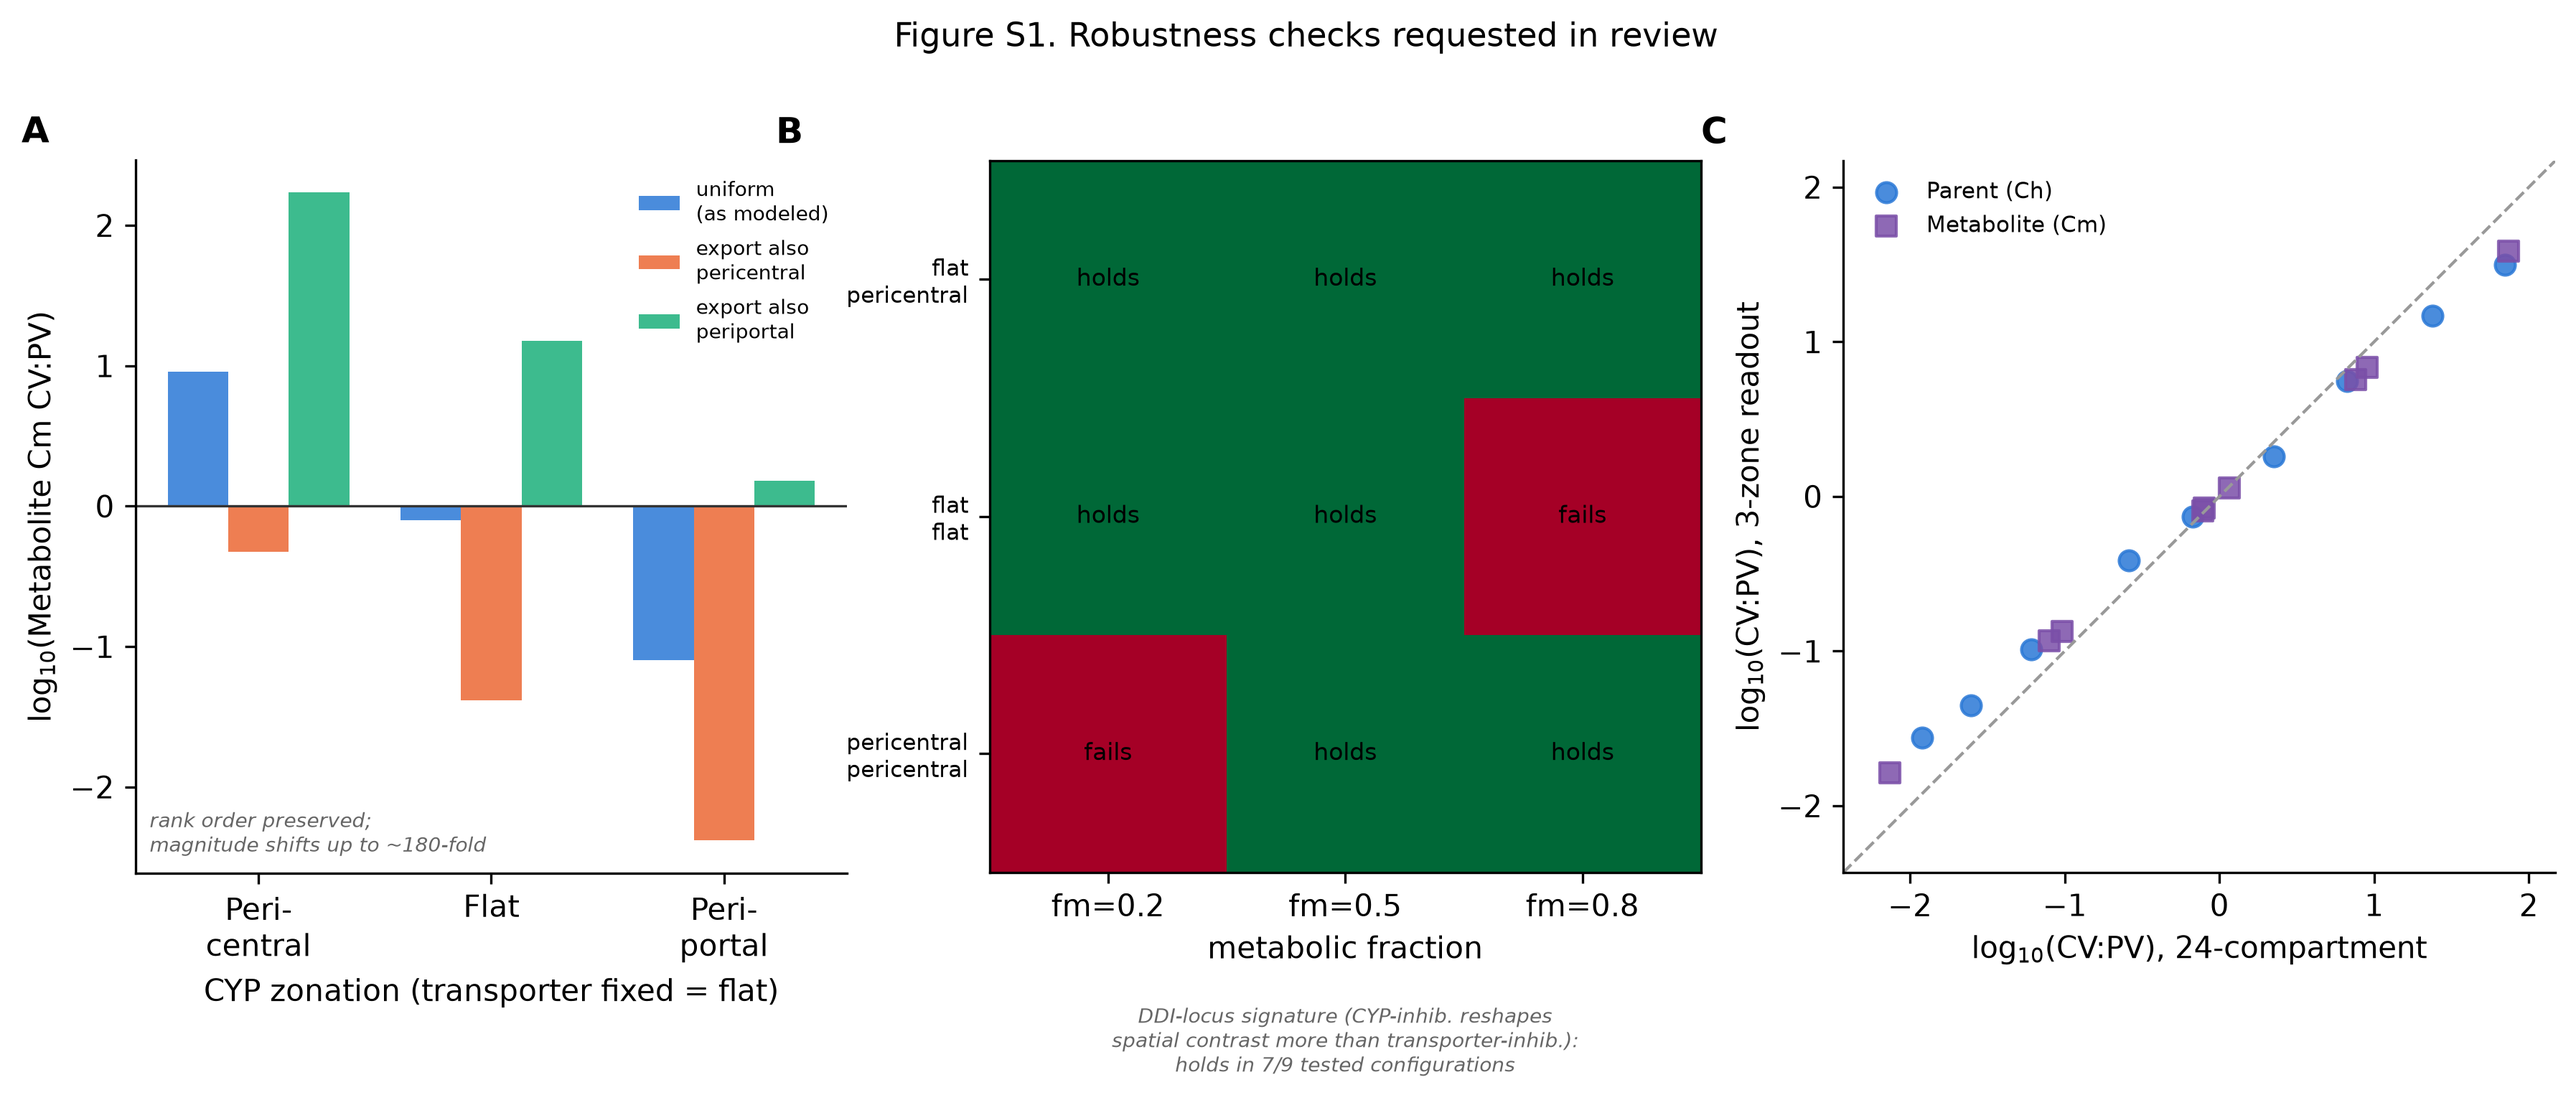
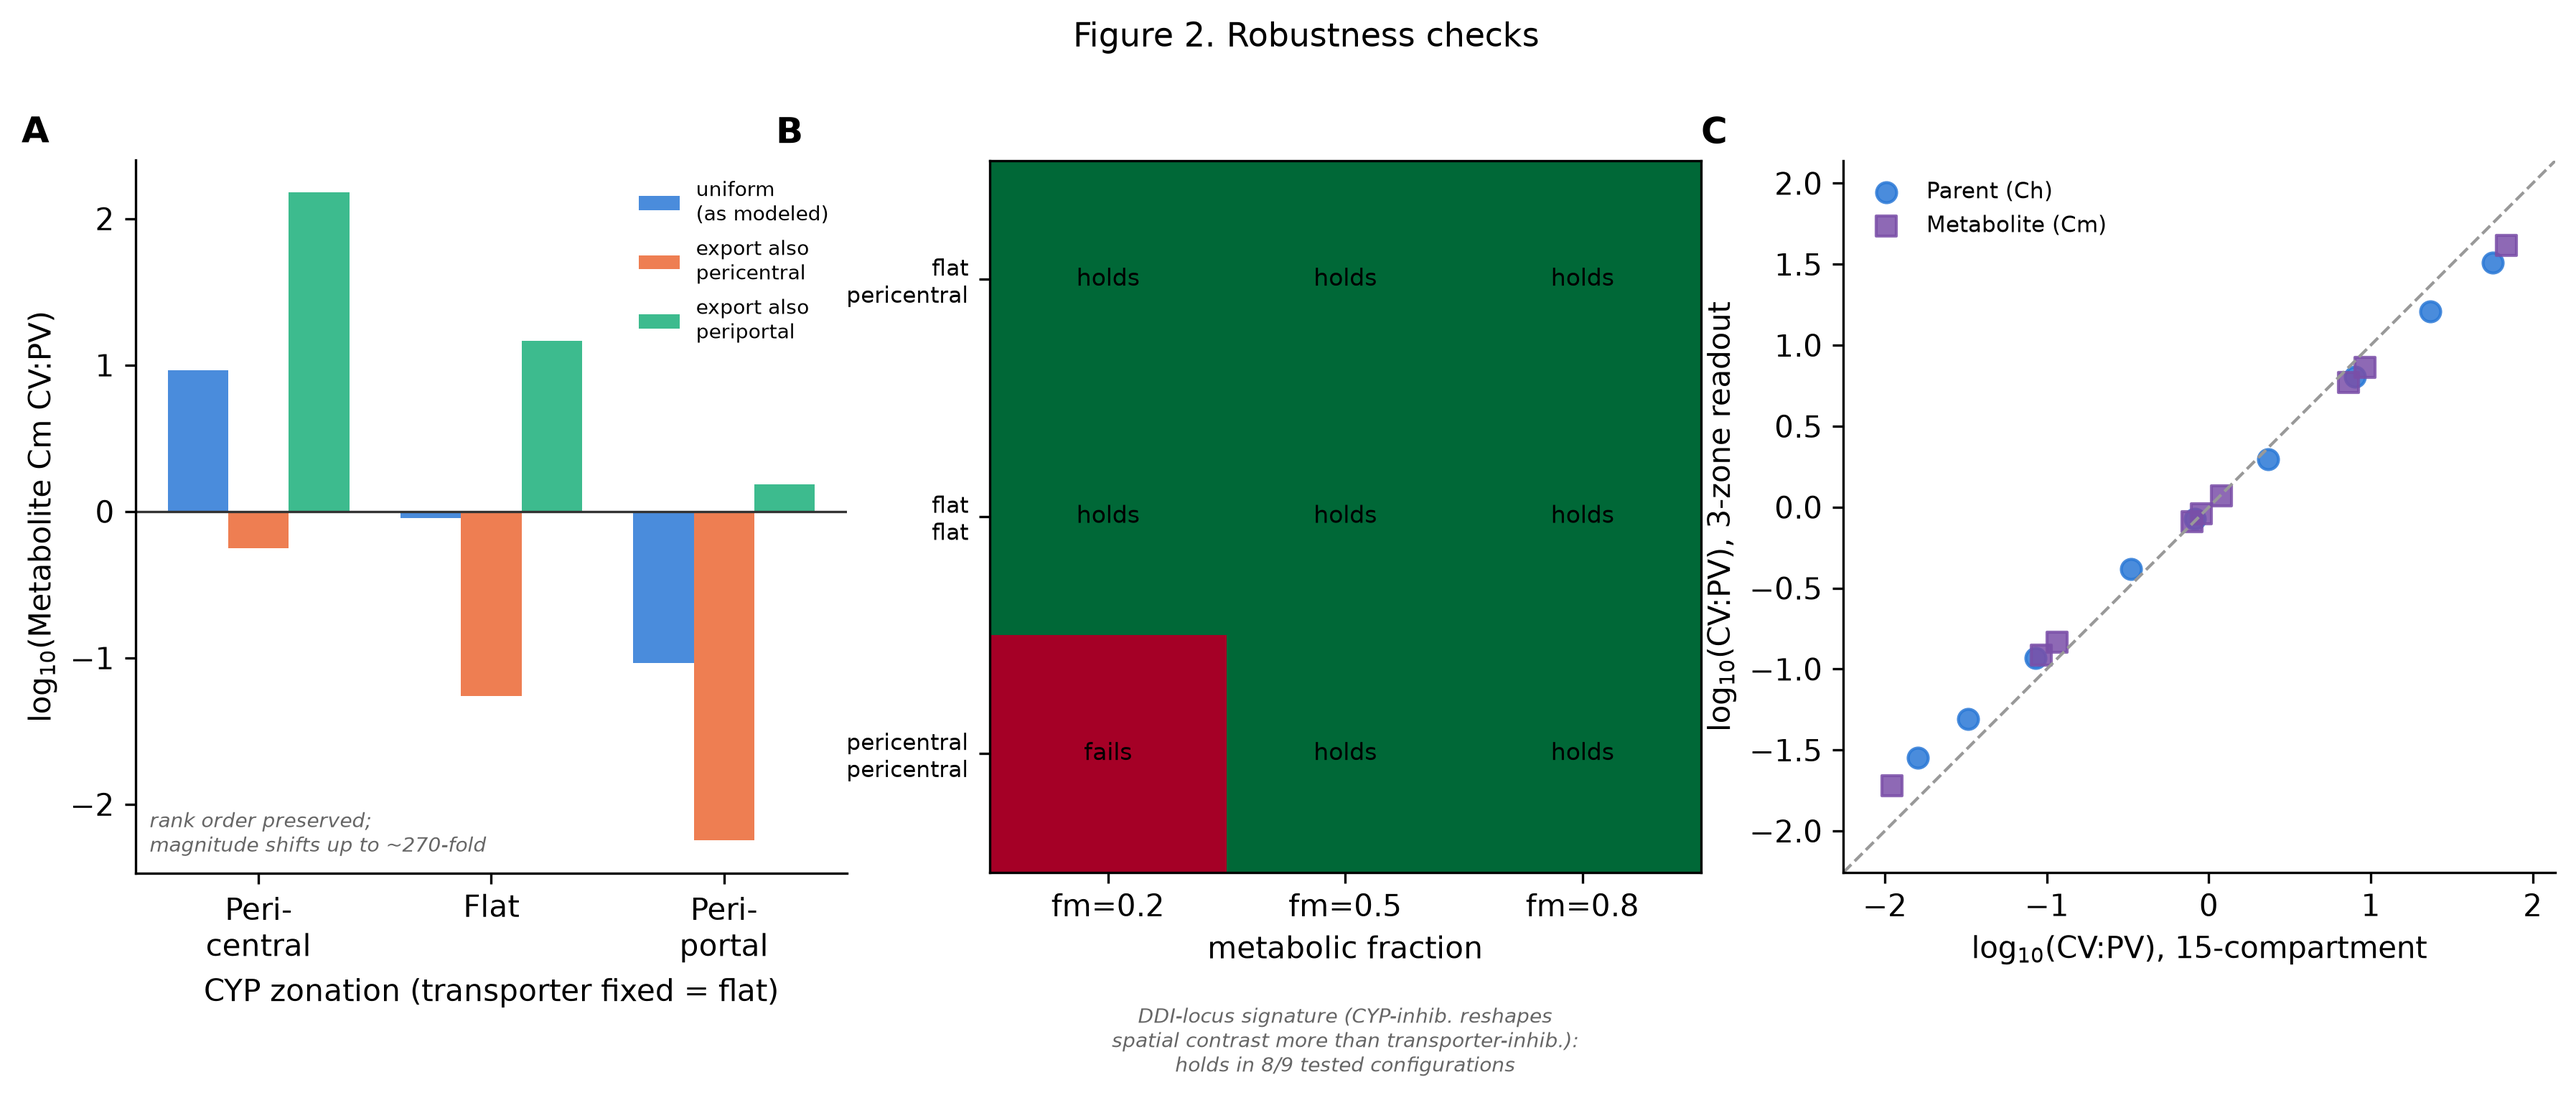
Update model to N=15 (Ruijter et al. 2004) and sync repo with current manuscript
- model.py, sensitivity_suite.py: N=24 -> N=15, matching the stereologically-
  grounded compartment count now used throughout the manuscript
- make_figure1.py, make_figure2_sensitivity.py: regenerated figure1.png and
  figure2_sensitivity.png from the N=15 model; fixed stale numbers (DDI
  signature 7/9 -> 8/9, metabolite-export sensitivity ~363-fold -> ~270-fold,
  "24-compartment" axis label -> "15-compartment"); corrected in-plot title
  from "Figure S1" to "Figure 2" to match its current main-text placement
- README.md: removed references to the unpublished companion Perspective
  (under review, not yet accessible to readers), updated headline findings
  and robustness section to match N=15 results, updated Status section to
  reflect the completed real-kinetics follow-up study

diff --git a/make_figure2_sensitivity.py b/make_figure2_sensitivity.py
@@ -26,7 +26,7 @@ axA.axhline(0, color="#333", lw=0.8)
 axA.legend(fontsize=6.8, frameon=False, loc="upper right")
 axA.spines[['top','right']].set_visible(False)
 axA.set_title("A", loc="left", fontweight="bold", x=-0.16)
-axA.text(0.02, 0.03, "rank order preserved;\nmagnitude shifts up to ~180-fold",
+axA.text(0.02, 0.03, "rank order preserved;\nmagnitude shifts up to ~270-fold",
          transform=axA.transAxes, fontsize=6.8, color="#666", style="italic")
 
 # ---------------- Panel B: DDI signature robustness across fm/configs ----------------
@@ -43,6 +43,7 @@ for i,(tr,cy) in enumerate(configs):
         dc_shape = abs(100*cv_pv(rc["Ch"])/base_cvpv - 100)
         grid[i,j] = 1.0 if dc_shape > dt_shape else 0.0
 
+n_hold = int(grid.sum())
 im = axB.imshow(grid, cmap="RdYlGn", vmin=0, vmax=1, aspect="equal")
 for i in range(3):
     for j in range(3):
@@ -51,8 +52,9 @@ axB.set_xticks(range(3)); axB.set_xticklabels([f"fm={f}" for f in fms])
 axB.set_yticks(range(3)); axB.set_yticklabels([f"{tr}\n{cy}" for tr,cy in configs], fontsize=7.5)
 axB.set_title("B", loc="left", fontweight="bold", x=-0.30)
 axB.set_xlabel("metabolic fraction")
-axB.text(0.5, -0.28, "DDI-locus signature (CYP-inhib. reshapes\nspatial contrast more than transporter-inhib.):\nholds in 7/9 tested configurations",
+axB.text(0.5, -0.28, f"DDI-locus signature (CYP-inhib. reshapes\nspatial contrast more than transporter-inhib.):\nholds in {n_hold}/9 tested configurations",
          transform=axB.transAxes, fontsize=6.8, color="#666", ha="center", style="italic")
+print(f"DDI signature holds in {n_hold}/9 configurations")
 
 # ---------------- Panel C: spatial-averaging / detectability ----------------
 data = []
@@ -67,13 +69,13 @@ lims = [min(np.log10(data[:,[0,2]]).min(), np.log10(data[:,[1,3]]).min())-0.3,
         max(np.log10(data[:,[0,2]]).max(), np.log10(data[:,[1,3]]).max())+0.3]
 axC.plot(lims, lims, color="#999", lw=1, ls="--")
 axC.set_xlim(lims); axC.set_ylim(lims)
-axC.set_xlabel("log$_{10}$(CV:PV), 24-compartment")
+axC.set_xlabel("log$_{10}$(CV:PV), 15-compartment")
 axC.set_ylabel("log$_{10}$(CV:PV), 3-zone readout")
 axC.legend(fontsize=7.5, frameon=False, loc="upper left")
 axC.spines[['top','right']].set_visible(False)
 axC.set_title("C", loc="left", fontweight="bold", x=-0.20)
 axC.set_aspect("equal")
 
-fig.suptitle("Figure S1. Robustness checks requested in review", fontsize=11, y=1.03)
-fig.savefig("figure2_sensitivity.png", dpi=300, bbox_inches="tight")
+fig.suptitle("Figure 2. Robustness checks", fontsize=11, y=1.03)
+fig.savefig(__file__.replace("make_figure2_sensitivity.py", "figure2_sensitivity.png"), dpi=300, bbox_inches="tight")
 print("saved")

diff --git a/model.py b/model.py
@@ -1,28 +1,33 @@
 """
-Extended lobule model: Oatp1a4-type transporter zonation + CYP metabolic
-zonation, for the transporter+CYP DDI follow-up paper.
+Extended lobule model: transporter zonation + CYP metabolic zonation, for a
+joint transporter-CYP hepatic DDI model.
 
-24 compartments PV(1) -> CV(N), same blood-flow/transport backbone as the
-Oatp1a4 zonation model, with an added metabolic sink in each hepatocyte
-compartment producing a tracked metabolite pool.
+N compartments PV(1) -> CV(N), a sinusoidal blood-flow/transport backbone
+with an added metabolic sink in each hepatocyte compartment producing a
+tracked metabolite pool.
 
-Pure Python, no dependencies (fast enough at N=24, dt~1e-3, t~20 with
-explicit Euler -- ~1-2s per run).
+N=15: Ruijter et al. (2004, Hepatology 39:343-352) directly report 13-15
+cells along the centroportal (PV->CV) axis in rat liver, via stereological
+mapping (compare 16-18 in human, 9-10 in mouse); N=15 sits at the top of
+that reported range. Supersedes an earlier N=24, an uncited round-number
+discretization used in an earlier draft of this model.
+
+Pure Python, no dependencies (fast, dt~1e-3, t~20 with explicit Euler).
 """
 
-N = 24
+N = 15
 xs = [(i + 0.5) / N for i in range(N)]
 
-# ---- shared / transporter parameters (identical to paper 1) ----
-KM = 8.2        # uM, Oatp1a4 Km (Akanuma et al. 2019)
+# ---- shared / transporter parameters ----
+KM = 8.2        # uM, Oatp1a4-type transporter Km (Akanuma et al. 2019)
 KI = 0.3        # uM, digoxin (transporter inhibitor) Ki
 F = 8.0         # blood flow, a.u./min
 VB = 0.15       # fractional blood volume / compartment
 VH = 0.6        # fractional hepatocyte volume / compartment
 KEF = 0.8       # /min, reversible transporter efflux (hepatocyte -> blood)
-VMAX0 = 10.0    # total Oatp1a4 capacity, a.u.
+VMAX0 = 10.0    # total transporter capacity, a.u.
 
-# ---- new CYP / metabolism parameters ----
+# ---- CYP / metabolism parameters ----
 KM_CYP = 5.0    # uM, illustrative CYP Km
 KI_CYP = 0.5    # uM, illustrative CYP inhibitor (e.g. ketoconazole-like) Ki
 KEFM = 0.8      # /min, metabolite hepatocyte -> blood permeation (passive, one-way)

diff --git a/sensitivity_suite.py b/sensitivity_suite.py
@@ -1,6 +1,6 @@
 """
 Robustness/sensitivity suite for the transporter-CYP zonation model, built
-in response to peer review of Transporter_CYP_Zonation_BDD_DRAFT.docx.
+in response to peer review of the manuscript.
 
 Addresses:
   (1) whether metabolite-tracks-CYP is an emergent or structural result
@@ -9,15 +9,15 @@ Addresses:
   (3) whether the transporter-inhibitor-vs-CYP-inhibitor DDI signature is
       robust across fm and zonation configurations, not just one case
   (4) whether CV:PV contrasts survive coarse spatial averaging (3-zone
-      readout instead of 24-compartment)
+      readout instead of 15-compartment)
 
 Numpy-vectorized (compartments), explicit Euler in time (matches the
-manuscript's validated numerics; dt/t_end taken from model2.py's
+manuscript's validated numerics; dt/t_end taken from model.py's
 convergence-checked defaults, re-checked below for the new kefm(x) case).
 """
 import numpy as np
 
-N = 24
+N = 15  # anatomically-grounded (see model.py docstring); was 24
 xs = np.array([(i + 0.5) / N for i in range(N)])
 
 KM = 8.2

diff --git a/make_figure1.py b/make_figure1.py
@@ -127,7 +127,7 @@ plot_ddi_panel(axE, inh_doses, ch_inh_pct, cm_inh_pct,
 
 fig.text(0.5, 0.005,
     "D, E share the same y-axis scale. Victim drug: transporter = flat, CYP = pericentral, fm = 0.5. "
-    "Signature (E reshapes spatial contrast more than D) held in 7/9 tested fm x zonation configurations (Figure 2B).",
+    "Signature (E reshapes spatial contrast more than D) held in 8/9 tested fm x zonation configurations (Figure 2B).",
     ha="center", fontsize=7.5, color="#555", style="italic")
 
 fig.savefig(__file__.replace("make_figure1.py", "figure1.png"), dpi=300, bbox_inches="tight")

diff --git a/README.md b/README.md
@@ -5,16 +5,10 @@ independently zonated processes — an uptake transporter and a CYP-mediated
 metabolic sink — to predict spatial concentration profiles for a parent drug
 *and* its metabolite across the portal-vein-to-central-vein axis.
 
-**Companion code for:**
+**Code for:**
 > *Transporter and CYP Zonation Leave Separable Signatures on Parent Drug
 > versus Metabolite: A Minimal Hepatic Lobule Model* — submitted to
 > *Biopharmaceutics & Drug Disposition*.
-
-This model extends the transporter-only model in the companion repository
-[oatp1a4-zonation-simulator](https://github.com/hwe001/oatp1a4-zonation-simulator)
-(itself the companion tool for a Perspective on Oatp1a4 zonation, submitted to
-*CPT: Pharmacometrics & Systems Pharmacology*) by adding a second, saturable
-CYP metabolism flux and a tracked metabolite compartment.
 
 ## Why this exists
 
@@ -30,15 +24,17 @@ enzyme, without invasive regional sampling?
 
 ## What's in this repo
 
-- **`model.py`** — the model itself: a 24-compartment sinusoidal transport
-  model (PV → CV) with saturable transporter influx, reversible transporter
-  efflux, a saturable CYP metabolism sink, and a metabolite compartment.
-  Transporter and CYP capacity are each drawn independently from one of three
-  zonation shapes (pericentral, non-zonated/flat, periportal), giving nine
-  combinations. Two independent competitive-inhibition perpetrators (a
-  transporter inhibitor and a CYP inhibitor) can be simulated. Pure
-  dependency-free Python plus the standard library; run directly with
-  `python3 model.py` to print the baseline transporter×CYP zonation grid.
+- **`model.py`** — the model itself: a 15-compartment sinusoidal transport
+  model (PV → CV; compartment count set from Ruijter et al. 2004
+  stereological rat-liver data, see the docstring) with saturable transporter
+  influx, reversible transporter efflux, a saturable CYP metabolism sink, and
+  a metabolite compartment. Transporter and CYP capacity are each drawn
+  independently from one of three zonation shapes (pericentral, non-zonated/
+  flat, periportal), giving nine combinations. Two independent competitive-
+  inhibition perpetrators (a transporter inhibitor and a CYP inhibitor) can
+  be simulated. Pure dependency-free Python plus the standard library; run
+  directly with `python3 model.py` to print the baseline transporter×CYP
+  zonation grid.
 - **`make_figure1.py`** — generates the manuscript's Figure 1 (schematic,
   parent/metabolite CV:PV grids across all nine zonation combinations, and
   the transporter-inhibitor-vs-CYP-inhibitor DDI discrimination panels).
@@ -72,16 +68,16 @@ enzyme, without invasive regional sampling?
   suppresses the parent's spatial contrast even though the transporter
   itself remains sharply zonated.
 - **This model reaches a genuine, non-trivial steady state** under constant
-  portal inflow — unlike the transporter-only companion model, whose true
-  equilibrium is exactly flat for every hypothesis, because CYP metabolism
-  here is a real, irreversible sink.
+  portal inflow, because CYP metabolism here is a real, irreversible sink
+  rather than a purely reversible transporter-efflux process, which would
+  instead relax to a flat equilibrium for every zonation hypothesis.
 - **Transporter- and CYP-mediated DDIs leave distinguishable signatures in
-  most (7/9), but not all, tested configurations**: a transporter inhibitor
+  most (8/9), but not all, tested configurations**: a transporter inhibitor
   collapses total exposure while barely reshaping parent spatial contrast;
   a CYP inhibitor raises parent exposure and substantially reshapes its
-  spatial contrast. The two failure cases (fm = 0.8 flat/flat, fm = 0.2
-  pericentral/pericentral) have a mechanistic explanation in the manuscript
-  (Robustness checks) — both are near-misses, not reversals.
+  spatial contrast. The one failure case (fm = 0.2, pericentral/pericentral)
+  has a mechanistic explanation in the manuscript (Robustness checks) — a
+  near-miss, not a reversal.
 
 ## What's robust, and what isn't
 
@@ -93,9 +89,10 @@ on the specific illustrative parameter set:
   metabolite-tracks-CYP hold across a >10-fold sweep of fm, Km,cyp, kef, and
   flow; survive decoupling CYP capacity from kef entirely; survive
   coarse-graining to a 3-zone experimental readout; survive redefining the
-  CV:PV boundary width (n_edge = 1/3/5).
+  CV:PV boundary width (n_edge = 1/3/5); survive re-running at N = 24
+  compartments (the compartment count used in earlier drafts).
 - **Not robust (absolute magnitude):** metabolite CV:PV shifts by up to
-  ~363-fold depending on whether metabolite export is itself zonated — a
+  ~270-fold depending on whether metabolite export is itself zonated — a
   process this minimal model holds uniform by construction. Absolute
   metabolite gradients should not be over-interpreted quantitatively even
   where their direction is reliable.
@@ -108,10 +105,14 @@ values are chosen to be physiologically plausible, not fitted to a matched
 kinetic dataset for a specific drug — see the manuscript's Limitations
 section. All numerical results are dt-convergence-checked (explicit Euler,
 dt = 0.0025 min, verified against a 16-fold finer step at baseline and at
-every tested sensitivity-sweep extreme). A follow-up model, fitting real rat
-atorvastatin/cyclosporine kinetics, is in scoping — and was found to require
-a stiff ODE solver, since real transporter Vmax is far larger relative to
-flow than the illustrative values used here.
+every tested sensitivity-sweep extreme). A follow-up study, replacing these
+illustrative parameters with real rat atorvastatin/cyclosporine kinetics
+from two independent literature datasets, has since been completed; it
+found the qualitative parent-tracks-transporter/metabolite-tracks-CYP
+signature survives at real parameter scale (robust to parameter,
+compartment-count, and inhibition-mechanism uncertainty), and separately
+identified genuine numerical stiffness as a consequence of using real
+transporter kinetics rather than illustrative ones.
 
 ## License
 
